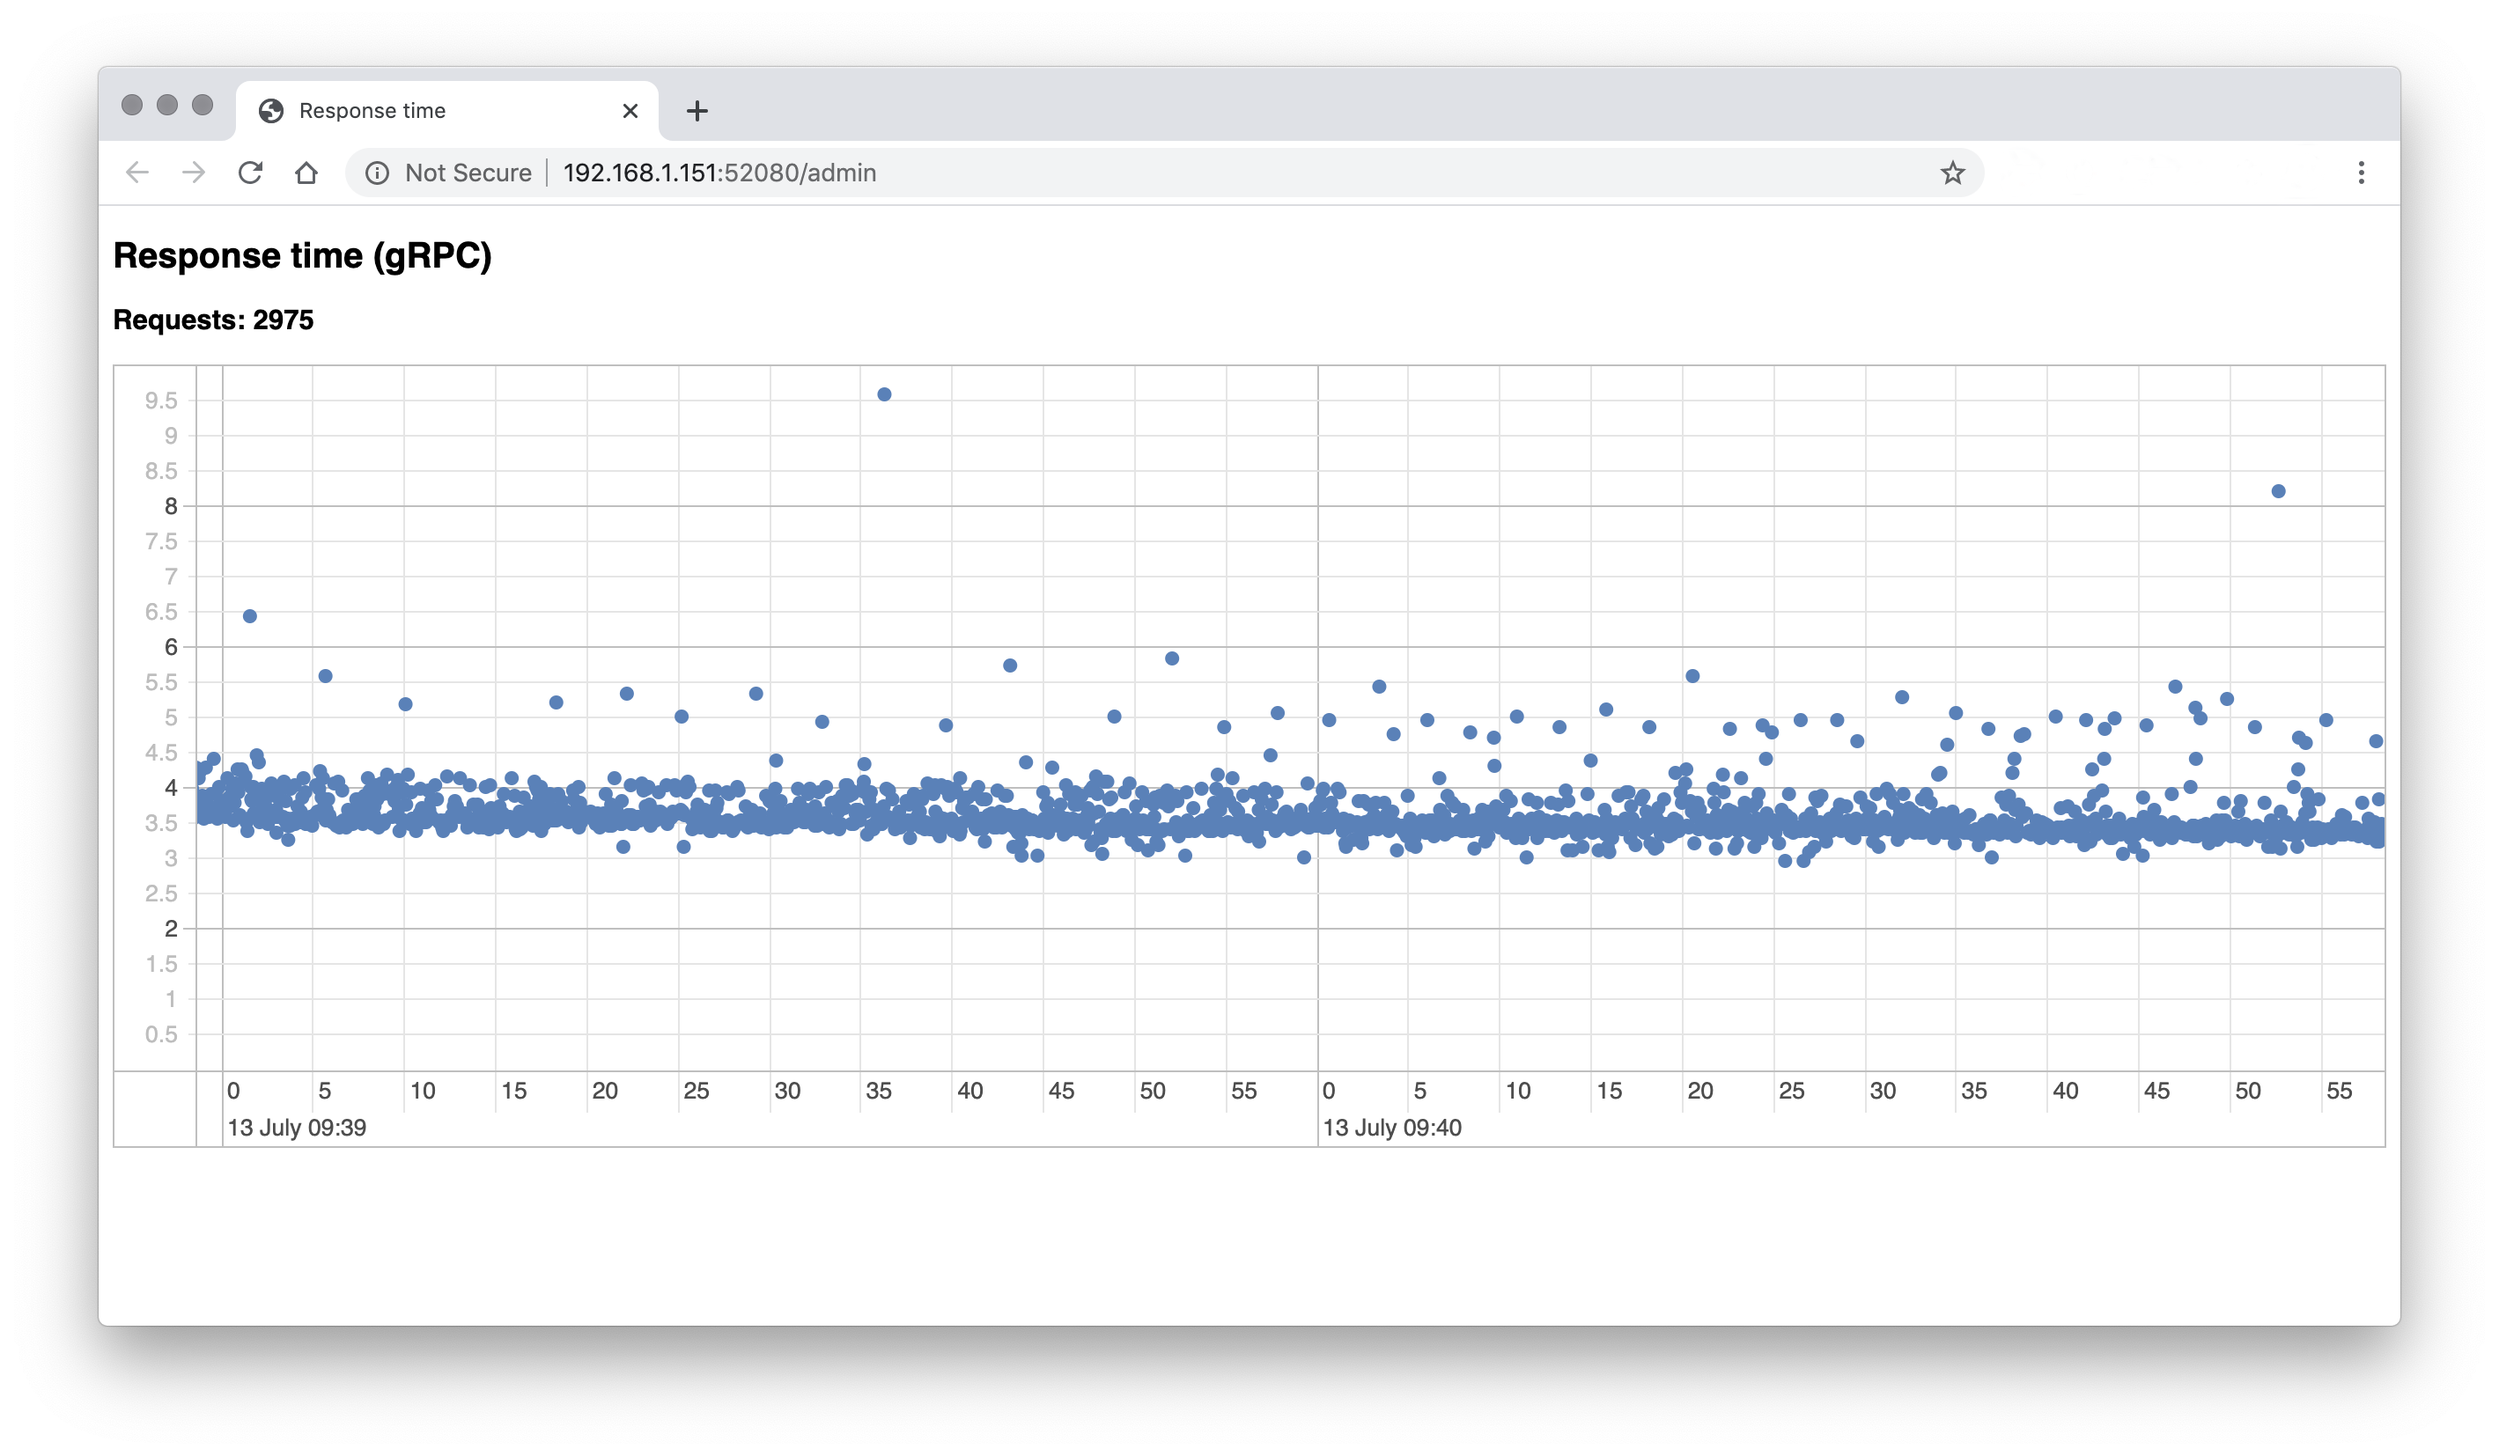
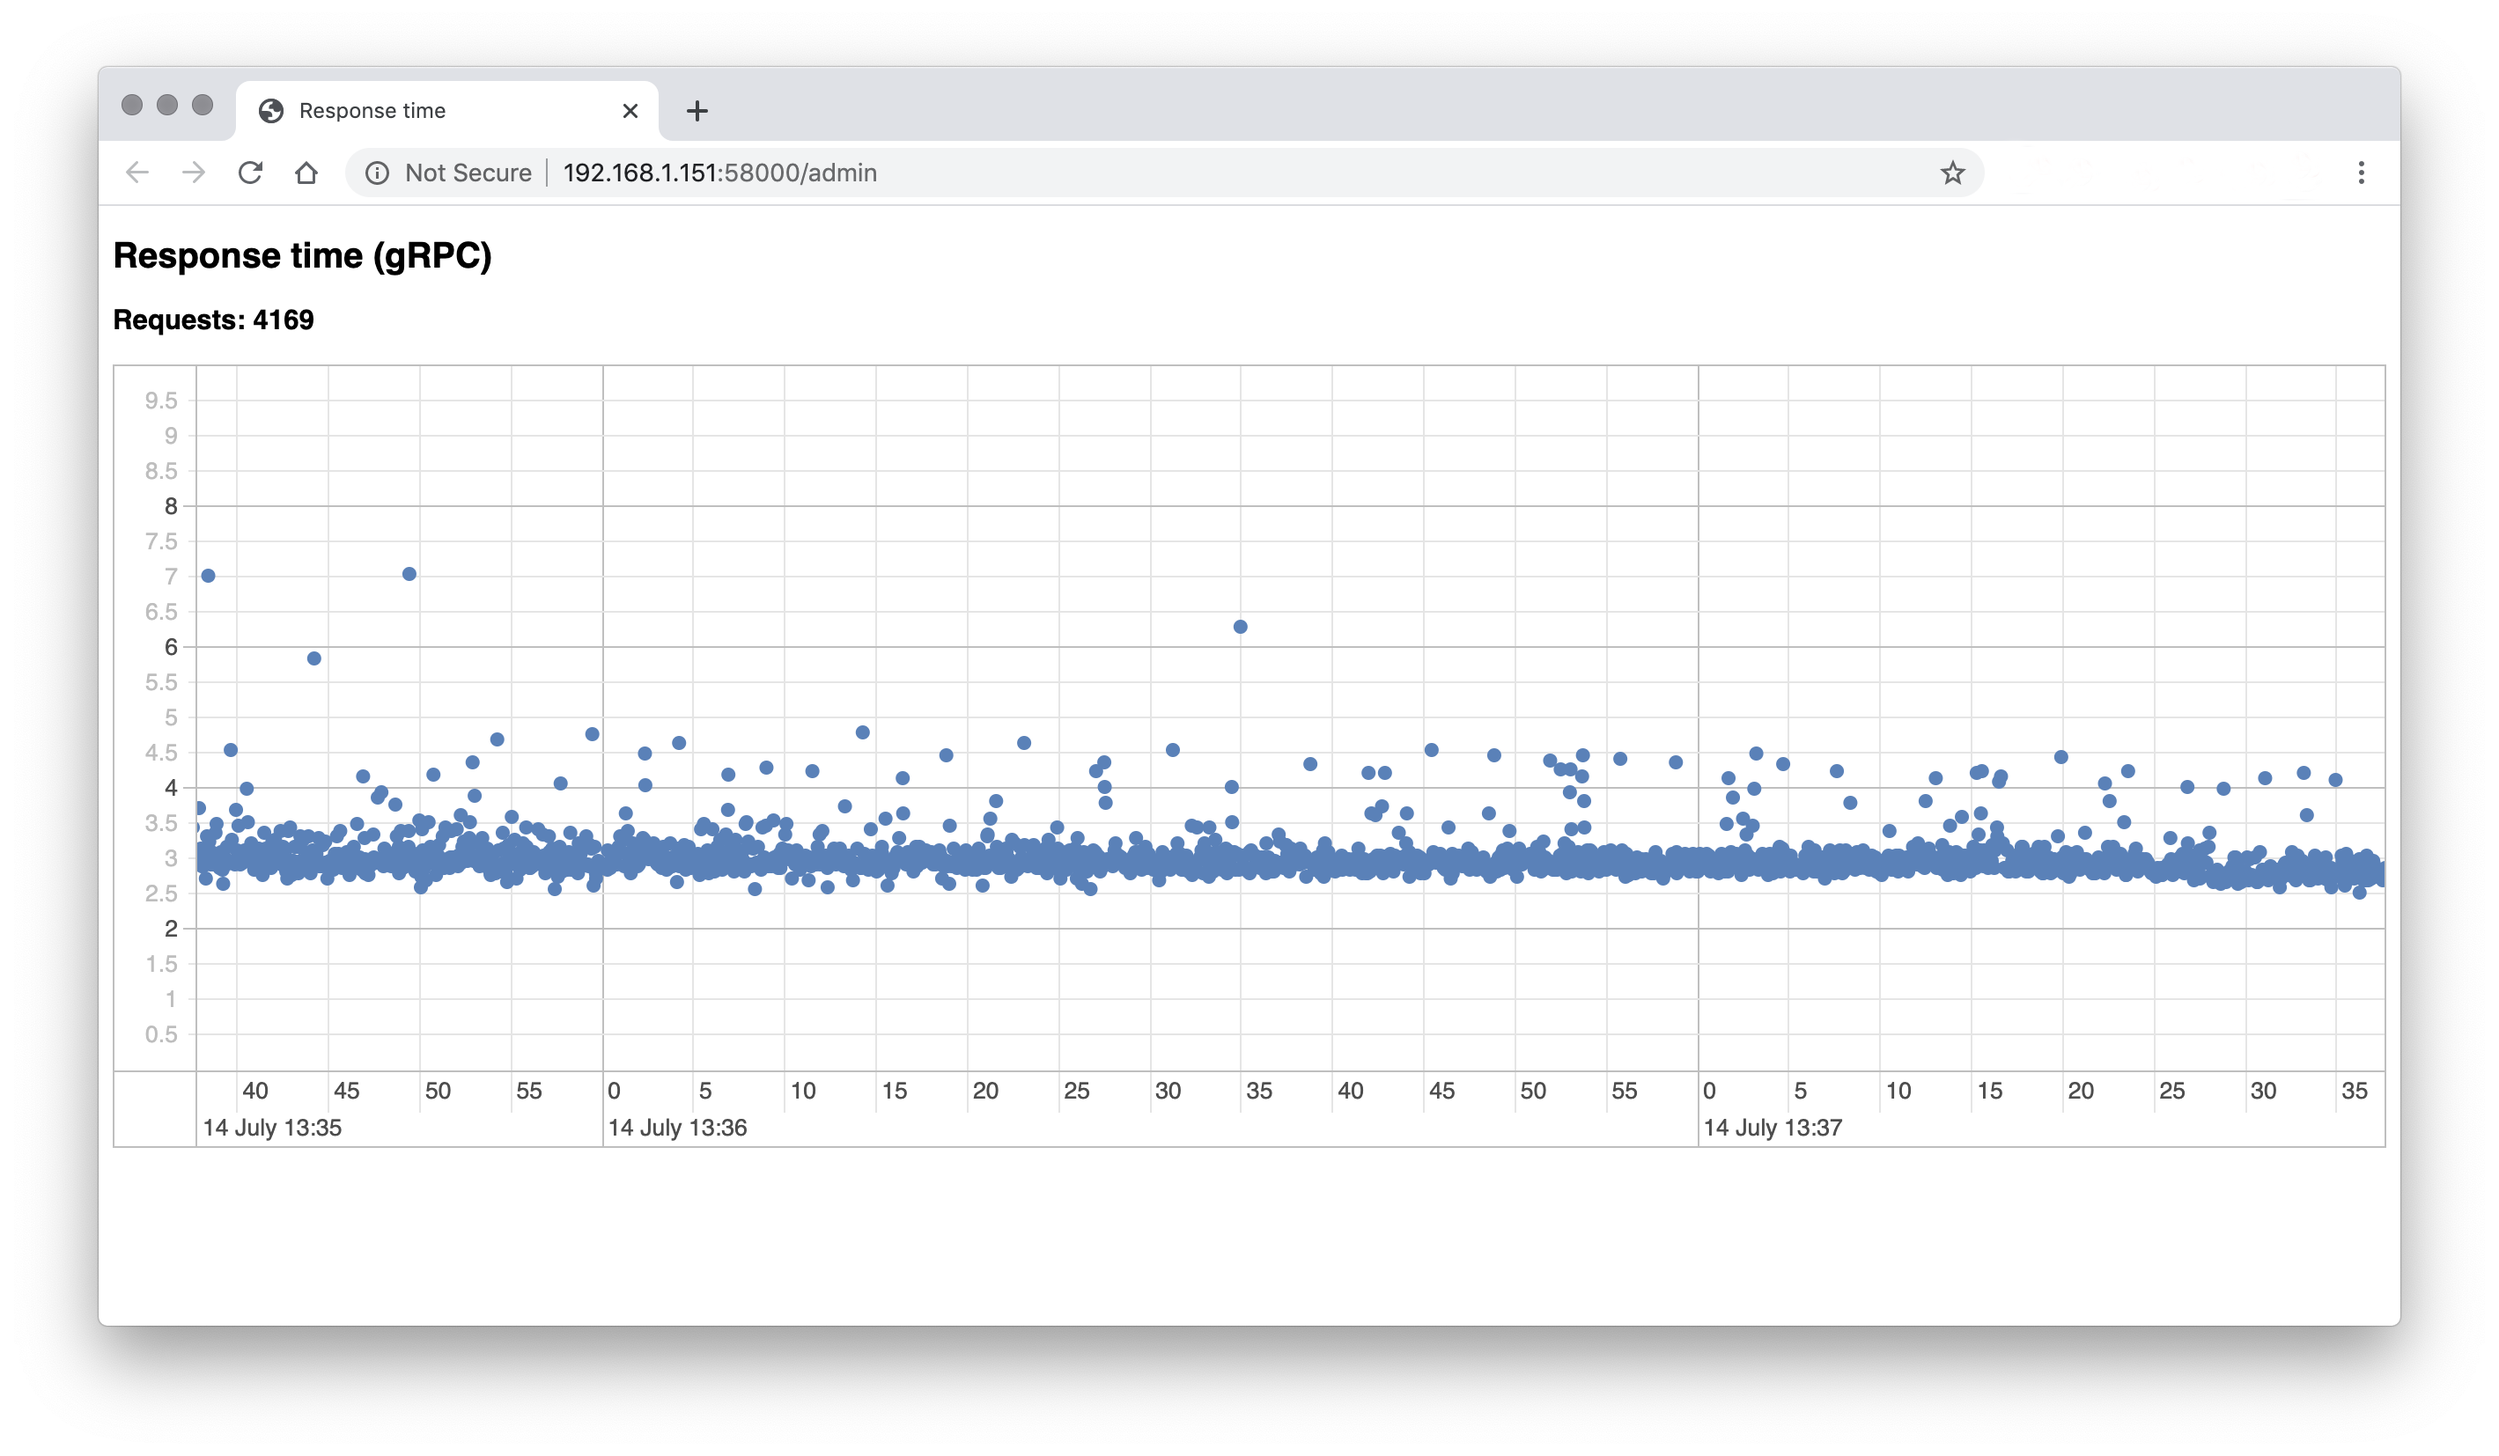
Optimized gRPC support

diff --git a/src/main/java/com/jaffa/rpc/lib/grpc/receivers/GrpcAsyncAndSyncRequestReceiver.java b/src/main/java/com/jaffa/rpc/lib/grpc/receivers/GrpcAsyncAndSyncRequestReceiver.java
@@ -30,10 +30,44 @@ import java.util.concurrent.Executors;
 @Slf4j
 public class GrpcAsyncAndSyncRequestReceiver implements Runnable, Closeable {
 
-    private static final ExecutorService asyncService = Executors.newFixedThreadPool(3);
-    private static final ExecutorService requestService = Executors.newFixedThreadPool(3);
+    private static final ExecutorService asyncService = Executors.newFixedThreadPool(Runtime.getRuntime().availableProcessors());
+    private static final ExecutorService requestService = Executors.newFixedThreadPool(Runtime.getRuntime().availableProcessors());
 
     private Server server;
+
+    public static NettyServerBuilder addSecurityContext(NettyServerBuilder serverBuilder) {
+        try {
+            if (Boolean.parseBoolean(System.getProperty(Options.GRPC_USE_SSL, "false"))) {
+                return serverBuilder.sslContext(GrpcSslContexts.
+                        configure(SslContextBuilder.
+                                forServer(new File(Utils.getRequiredOption(Options.GRPC_SSL_SERVER_STORE_LOCATION)),
+                                        new File(Utils.getRequiredOption(Options.GRPC_SSL_SERVER_KEY_LOCATION)))).build());
+            } else {
+                return serverBuilder;
+            }
+        } catch (SSLException sslException) {
+            log.error("Exception occurred while creating SSL context for gRPC", sslException);
+            throw new JaffaRpcSystemException(sslException);
+        }
+    }
+
+    public static NettyChannelBuilder addSecurityContext(NettyChannelBuilder channelBuilder) {
+        try {
+            if (Boolean.parseBoolean(System.getProperty(Options.GRPC_USE_SSL, "false"))) {
+                return channelBuilder.sslContext(GrpcSslContexts.
+                        configure(SslContextBuilder.forClient().
+                                keyManager(new File(Utils.getRequiredOption(Options.GRPC_SSL_CLIENT_KEYSTORE_LOCATION)),
+                                        new File(Utils.getRequiredOption(Options.GRPC_SSL_CLIENT_KEY_LOCATION))))
+                        .trustManager(new File(Utils.getRequiredOption(Options.GRPC_SSL_CLIENT_TRUSTSTORE_LOCATION)))
+                        .build()).useTransportSecurity();
+            } else {
+                return channelBuilder.usePlaintext();
+            }
+        } catch (SSLException sslException) {
+            log.error("Exception occurred while creating SSL context for gRPC", sslException);
+            throw new JaffaRpcSystemException(sslException);
+        }
+    }
 
     @Override
     public void run() {
@@ -48,6 +82,13 @@ public class GrpcAsyncAndSyncRequestReceiver implements Runnable, Closeable {
             throw new JaffaRpcSystemException(zmqStartupException);
         }
         log.info("{} terminated", this.getClass().getSimpleName());
+    }
+
+    @Override
+    public void close() {
+        server.shutdown();
+        asyncService.shutdown();
+        requestService.shutdown();
     }
 
     private static class CommandServiceImpl extends CommandServiceGrpc.CommandServiceImplBase {
@@ -87,46 +128,5 @@ public class GrpcAsyncAndSyncRequestReceiver implements Runnable, Closeable {
                 throw new JaffaRpcSystemException(exception);
             }
         }
-    }
-
-    public static NettyServerBuilder addSecurityContext(NettyServerBuilder serverBuilder) {
-        try {
-            if (Boolean.parseBoolean(System.getProperty(Options.GRPC_USE_SSL, "false"))) {
-                return serverBuilder.sslContext(GrpcSslContexts.
-                        configure(SslContextBuilder.
-                                forServer(new File(Utils.getRequiredOption(Options.GRPC_SSL_SERVER_STORE_LOCATION)),
-                                        new File(Utils.getRequiredOption(Options.GRPC_SSL_SERVER_KEY_LOCATION)))).build());
-            } else {
-                return serverBuilder;
-            }
-        } catch (SSLException sslException) {
-            log.error("Exception occurred while creating SSL context for gRPC", sslException);
-            throw new JaffaRpcSystemException(sslException);
-        }
-    }
-
-    public static NettyChannelBuilder addSecurityContext(NettyChannelBuilder channelBuilder) {
-        try {
-            if (Boolean.parseBoolean(System.getProperty(Options.GRPC_USE_SSL, "false"))) {
-                return channelBuilder.sslContext(GrpcSslContexts.
-                        configure(SslContextBuilder.forClient().
-                                keyManager(new File(Utils.getRequiredOption(Options.GRPC_SSL_CLIENT_KEYSTORE_LOCATION)),
-                                        new File(Utils.getRequiredOption(Options.GRPC_SSL_CLIENT_KEY_LOCATION))))
-                        .trustManager(new File(Utils.getRequiredOption(Options.GRPC_SSL_CLIENT_TRUSTSTORE_LOCATION)))
-                        .build()).useTransportSecurity();
-            } else {
-                return channelBuilder.usePlaintext();
-            }
-        } catch (SSLException sslException) {
-            log.error("Exception occurred while creating SSL context for gRPC", sslException);
-            throw new JaffaRpcSystemException(sslException);
-        }
-    }
-
-    @Override
-    public void close() {
-        server.shutdown();
-        asyncService.shutdown();
-        requestService.shutdown();
     }
 }

diff --git a/src/main/java/com/jaffa/rpc/lib/grpc/GrpcRequestSender.java b/src/main/java/com/jaffa/rpc/lib/grpc/GrpcRequestSender.java
@@ -7,6 +7,7 @@ import com.jaffa.rpc.lib.entities.Command;
 import com.jaffa.rpc.lib.entities.Protocol;
 import com.jaffa.rpc.lib.exception.JaffaRpcExecutionException;
 import com.jaffa.rpc.lib.exception.JaffaRpcExecutionTimeoutException;
+import com.jaffa.rpc.lib.exception.JaffaRpcNoRouteException;
 import com.jaffa.rpc.lib.grpc.receivers.GrpcAsyncAndSyncRequestReceiver;
 import com.jaffa.rpc.lib.request.Sender;
 import com.jaffa.rpc.lib.zookeeper.Utils;
@@ -14,11 +15,24 @@ import io.grpc.ManagedChannel;
 import io.grpc.Status;
 import io.grpc.StatusRuntimeException;
 import io.grpc.netty.NettyChannelBuilder;
+import lombok.extern.slf4j.Slf4j;
 import org.apache.commons.lang3.tuple.Pair;
 
+import java.util.Map;
+import java.util.concurrent.ConcurrentHashMap;
 import java.util.concurrent.TimeUnit;
 
+@Slf4j
 public class GrpcRequestSender extends Sender {
+
+    private static final Map<Pair<String, Integer>, ManagedChannel> cache = new ConcurrentHashMap<>();
+
+    public static void shutDownChannels() {
+        cache.values().forEach(x -> {
+            if (!x.isShutdown()) x.shutdownNow();
+        });
+        log.info("All gRPC channels were terminated");
+    }
 
     @Override
     protected byte[] executeSync(byte[] message) {
@@ -39,29 +53,39 @@ public class GrpcRequestSender extends Sender {
             CommandResponse commandResponse = stub.withDeadlineAfter(totalTimeout, TimeUnit.MILLISECONDS).execute(MessageConverters.toGRPCCommandRequest(command));
             return MessageConverters.fromGRPCCommandResponse(commandResponse);
         } catch (StatusRuntimeException statusRuntimeException) {
-            if (statusRuntimeException.getStatus() == Status.DEADLINE_EXCEEDED)
-                throw new JaffaRpcExecutionTimeoutException();
-            else
-                throw new JaffaRpcExecutionException(statusRuntimeException);
-        } finally {
-            channel.shutdownNow();
+            processStatusException(statusRuntimeException);
         }
+        return null;
     }
 
     private ManagedChannel getManagedChannel() {
         Pair<String, Integer> hostAndPort = Utils.getHostAndPort(Utils.getHostForService(command.getServiceClass(), moduleId, Protocol.GRPC).getLeft(), ":");
-        NettyChannelBuilder channelBuilder = NettyChannelBuilder.forAddress(hostAndPort.getLeft(), hostAndPort.getRight());
-        channelBuilder = GrpcAsyncAndSyncRequestReceiver.addSecurityContext(channelBuilder);
-        return channelBuilder.build();
+        return cache.computeIfAbsent(hostAndPort, key -> {
+            NettyChannelBuilder channelBuilder = NettyChannelBuilder.forAddress(key.getLeft(), key.getRight());
+            channelBuilder = GrpcAsyncAndSyncRequestReceiver.addSecurityContext(channelBuilder);
+            return channelBuilder.build();
+        });
+    }
+
+    private void processStatusException(StatusRuntimeException statusRuntimeException) {
+        if (statusRuntimeException.getStatus() == Status.DEADLINE_EXCEEDED)
+            throw new JaffaRpcExecutionTimeoutException();
+        else if (statusRuntimeException.getStatus() == Status.UNAVAILABLE) {
+            throw new JaffaRpcNoRouteException(command.getServiceClass(), Protocol.GRPC);
+        } else
+            throw new JaffaRpcExecutionException(statusRuntimeException);
     }
 
     @Override
     public void executeAsync(Command command) {
         ManagedChannel channel = getManagedChannel();
         CommandServiceGrpc.CommandServiceBlockingStub stub = CommandServiceGrpc.newBlockingStub(channel);
-        CommandResponse response = stub.execute(MessageConverters.toGRPCCommandRequest(command));
-        if (!response.getResponse().equals(ByteString.EMPTY))
-            throw new JaffaRpcExecutionException("Wrong value returned after async callback processing!");
-        channel.shutdownNow();
+        try {
+            CommandResponse response = stub.execute(MessageConverters.toGRPCCommandRequest(command));
+            if (!response.getResponse().equals(ByteString.EMPTY))
+                throw new JaffaRpcExecutionException("Wrong value returned after async callback processing!");
+        } catch (StatusRuntimeException statusRuntimeException) {
+            processStatusException(statusRuntimeException);
+        }
     }
 }

diff --git a/src/main/java/com/jaffa/rpc/lib/JaffaService.java b/src/main/java/com/jaffa/rpc/lib/JaffaService.java
@@ -8,6 +8,7 @@ import com.jaffa.rpc.lib.common.Options;
 import com.jaffa.rpc.lib.common.RequestInvoker;
 import com.jaffa.rpc.lib.entities.Protocol;
 import com.jaffa.rpc.lib.exception.JaffaRpcSystemException;
+import com.jaffa.rpc.lib.grpc.GrpcRequestSender;
 import com.jaffa.rpc.lib.grpc.receivers.GrpcAsyncAndSyncRequestReceiver;
 import com.jaffa.rpc.lib.grpc.receivers.GrpcAsyncResponseReceiver;
 import com.jaffa.rpc.lib.http.receivers.HttpAsyncAndSyncRequestReceiver;
@@ -373,6 +374,7 @@ public class JaffaService {
                 throw new JaffaRpcSystemException(e);
             }
         });
+        GrpcRequestSender.shutDownChannels();
         ZContext zkCtx = ZeroMqRequestSender.context;
         if (!zkCtx.isClosed()) zkCtx.close();
         RabbitMQRequestSender.close();

diff --git a/src/main/java/com/jaffa/rpc/lib/grpc/receivers/GrpcAsyncResponseReceiver.java b/src/main/java/com/jaffa/rpc/lib/grpc/receivers/GrpcAsyncResponseReceiver.java
@@ -22,9 +22,8 @@ import java.util.concurrent.Executors;
 @Slf4j
 public class GrpcAsyncResponseReceiver implements Runnable, Closeable {
 
+    private static final ExecutorService requestService = Executors.newFixedThreadPool(Runtime.getRuntime().availableProcessors());
     private Server server;
-
-    private static final ExecutorService requestService = Executors.newFixedThreadPool(3);
 
     @Override
     public void run() {
